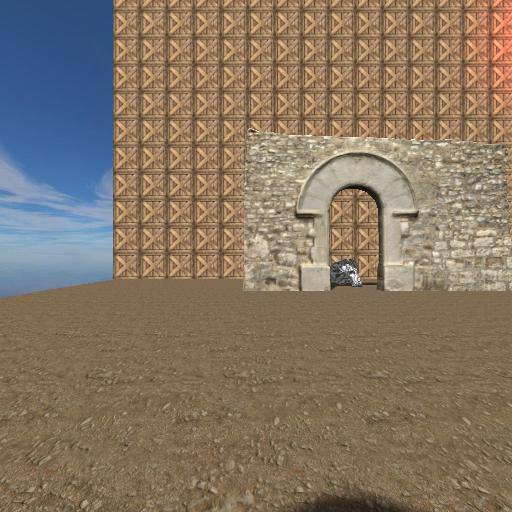
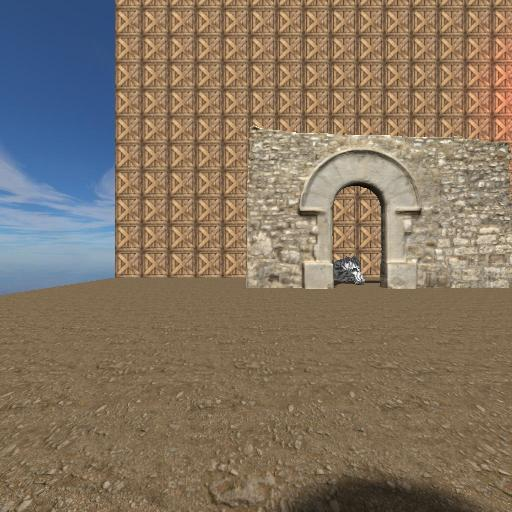
Sun colour changer

diff --git a/model.py b/model.py
@@ -18,7 +18,7 @@ def init_lights():
     light1 = {
         'position': glm.vec3(-15, 15, -12),
         'colour': glm.vec3(1.0, 0.0, 0.0),
-        'intensity': struct.pack('f', 3.0),
+        'intensity': struct.pack('f', 2.0),
         'range': struct.pack('f', 10.0)
     }
     
@@ -26,14 +26,14 @@ def init_lights():
     light2 = {
         'position': glm.vec3(0, 15, -12),
         'colour': glm.vec3(0.0, 1.0, 0.0),
-        'intensity': struct.pack('f', 3.0),
+        'intensity': struct.pack('f', 2.0),
         'range': struct.pack('f', 10.0)
     }
 
     light3 = {
         'position': glm.vec3(15, 15, -12),
         'colour': glm.vec3(0.0, 0.0, 1.0),
-        'intensity': struct.pack('f', 3.0),
+        'intensity': struct.pack('f', 2.0),
         'range': struct.pack('f', 10.0)
     }
     
@@ -141,6 +141,7 @@ class ExtendedBaseModel(BaseModel):
         self.iteras = 0
 
     def update(self):
+        self.program['sun.colour'].write(self.app.light.sun.colour)
         self.program['sun.direction'].write(self.app.light.sun.direction)
         self.program['m_view_light'].write(self.app.light.m_view_light)
         self.update_pbr_values()
@@ -258,6 +259,7 @@ class ExtendedBaseModel(BaseModel):
         self.program['m_model'].write(self.m_model)
         # sun
         self.program['m_proj_light'].write(self.app.light.m_proj_light)
+        self.program['sun.colour'].write(self.app.light.sun.colour)
         self.program['sun.direction'].write(self.app.light.sun.direction)
         self.program['sun.Ia'].write(self.app.light.sun.Ia)
         self.program['sun.Id'].write(self.app.light.sun.Id)

diff --git a/gui_renderer.py b/gui_renderer.py
@@ -149,6 +149,16 @@ Delta time: {self.app.delta_time * 1000:.2f} ms''')
         if self.selected_object[0] == '#1457Sun':
             imgui.columns(2)
             imgui.set_column_width(0, imgui.get_window_width() * 0.4)
+            imgui.text('Colour:')
+            imgui.next_column()
+            imgui.push_item_width(-1)
+            sun_rgb = self.light_handler.sun.colour
+            sun_colour_picker = imgui.color_edit3("  Colour Picker", sun_rgb[0], sun_rgb[1], sun_rgb[2])
+            if sun_colour_picker[0]:
+                self.light_handler.sun.colour = glm.vec3(sun_colour_picker[1])
+            
+            imgui.next_column()
+
             imgui.text('Direction:')
             imgui.next_column()
             imgui.push_item_width(-1)
@@ -159,6 +169,7 @@ Delta time: {self.app.delta_time * 1000:.2f} ms''')
                 norm_sun_dir = glm.normalize(glm.vec3(sun_direction[1]))
                 self.light_handler.sun.direction = norm_sun_dir
                 self.light_handler.direction = norm_sun_dir
+            
 
         elif self.selected_object[1] != 'grr':
             obj = self.scene_objects[self.selected_object[1]]

diff --git a/light.py b/light.py
@@ -3,14 +3,14 @@ import glm
 ortho_1_width = 20 # orhtho width
 
 class Sun:
-    def __init__(self, color=(1, 1, 1)):
-        self.color = glm.vec3(color)
+    def __init__(self, colour=(1, 1, 1)):
+        self.colour = glm.vec3(colour)
         self.unormalized_direction = (1, 2, 0.5)
         self.direction = glm.normalize(glm.vec3(self.unormalized_direction))
         # intensities
-        self.Ia = 0.18 * self.color  # ambient
-        self.Id = 1.5 * self.color  # diffuse
-        self.Is = 2 * self.color  # specular
+        self.Ia = glm.vec1(0.18)
+        self.Id = glm.vec1(1.5)
+        self.Is = glm.vec1(2)
 
 class Light:
     def __init__(self):
